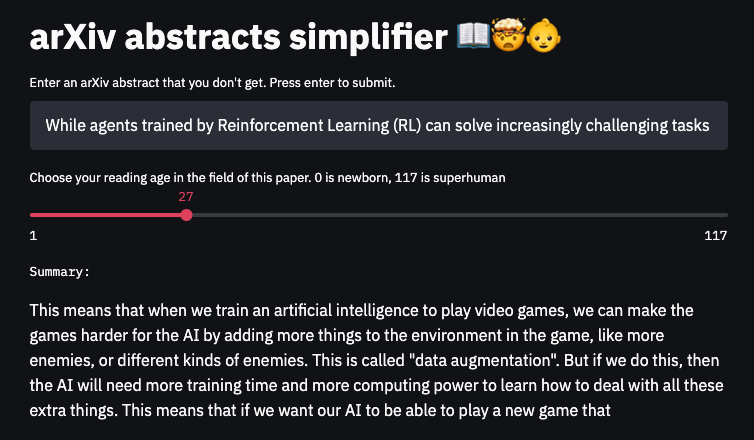
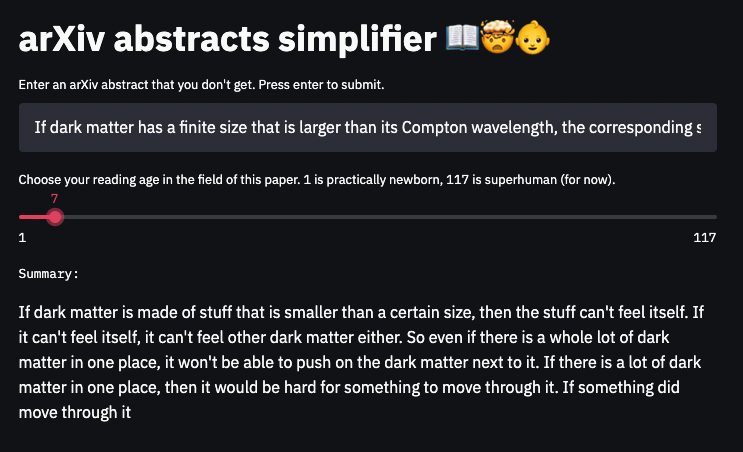
update demo image with funnier example

diff --git a/main.py b/main.py
@@ -8,12 +8,16 @@ openai.api_key = os.getenv("OPENAI_API_KEY")
 title = st.title("arXiv abstracts simplifier 📖🤯👶")
 text_field = st.text_input(label="Enter an arXiv abstract that you don't get. Press enter to submit.")
 reading_age = st.slider(
-    label="Choose your reading age in the field of this paper. 0 is newborn, 117 is superhuman (for now).",
+    label="Choose your reading age in the field of this paper. 1 is practically newborn, 117 is superhuman (for now).",
     min_value=1,
     max_value=117
 )
 
-openai_prompt = f"An {reading_age} year old asked me what this passage means:\n\"\"\"\n{text_field}\n\"\"\"\nI rephrased it for them, in plain language a {reading_age} year old can understand:\n\"\"\"\n"
+if reading_age == 0:
+    recipient_prompt = "newborn baby"  # TODO: model does not respond well to "newborn baby" - for now I've fixed min above at 1.
+else:
+    recipient_prompt = f"{reading_age} year old"
+openai_prompt = f"A {recipient_prompt} asked me what this abstract means:\n\"\"\"\n{text_field}\n\"\"\"\nI rephrased it for them, in plain language a {recipient_prompt} can understand:\n\"\"\"\n"
 
 response = openai.Completion.create(
   engine="davinci",
